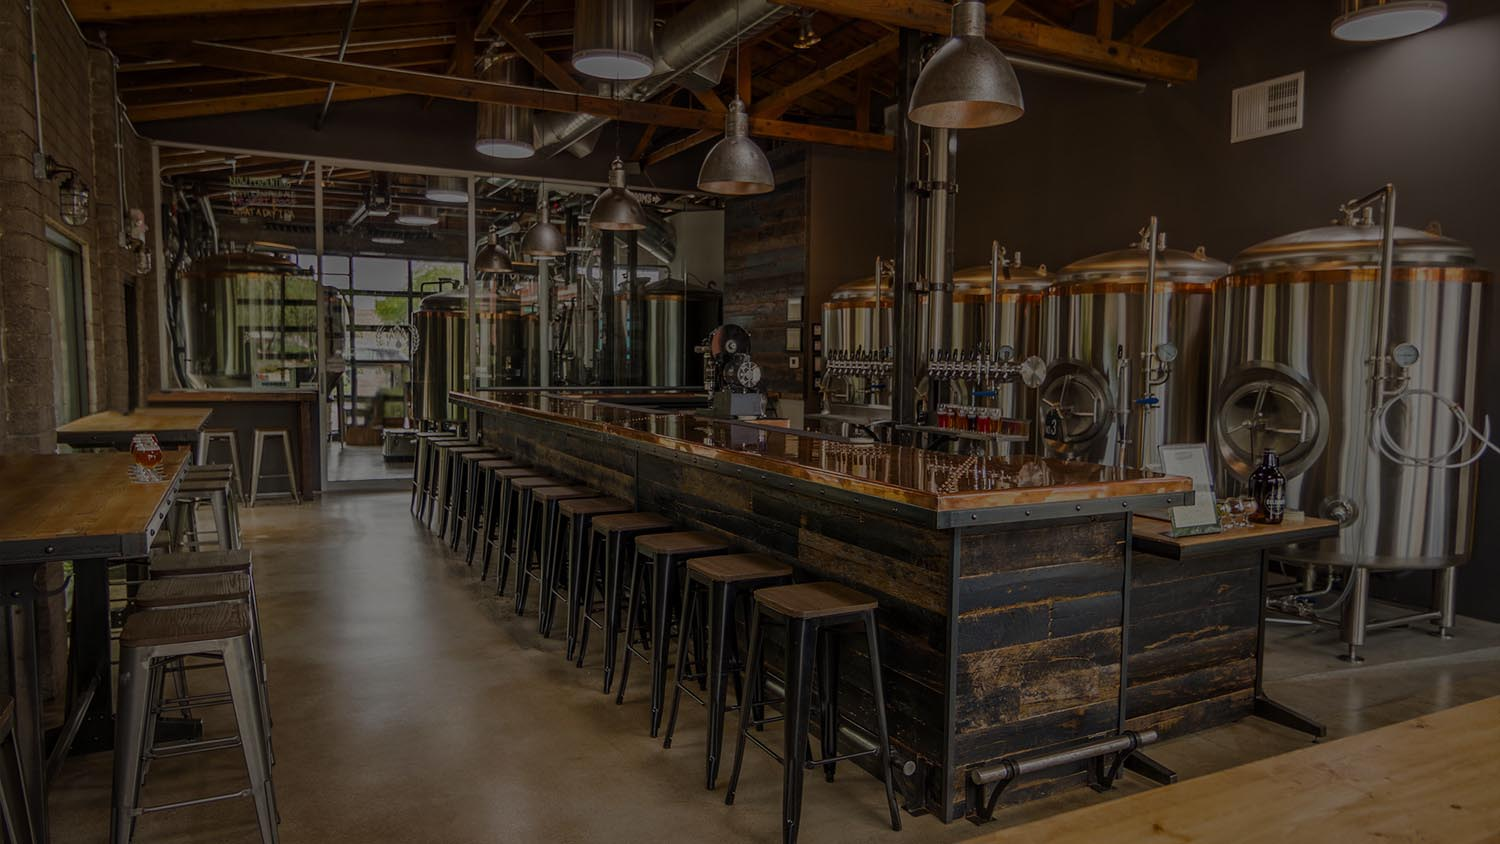
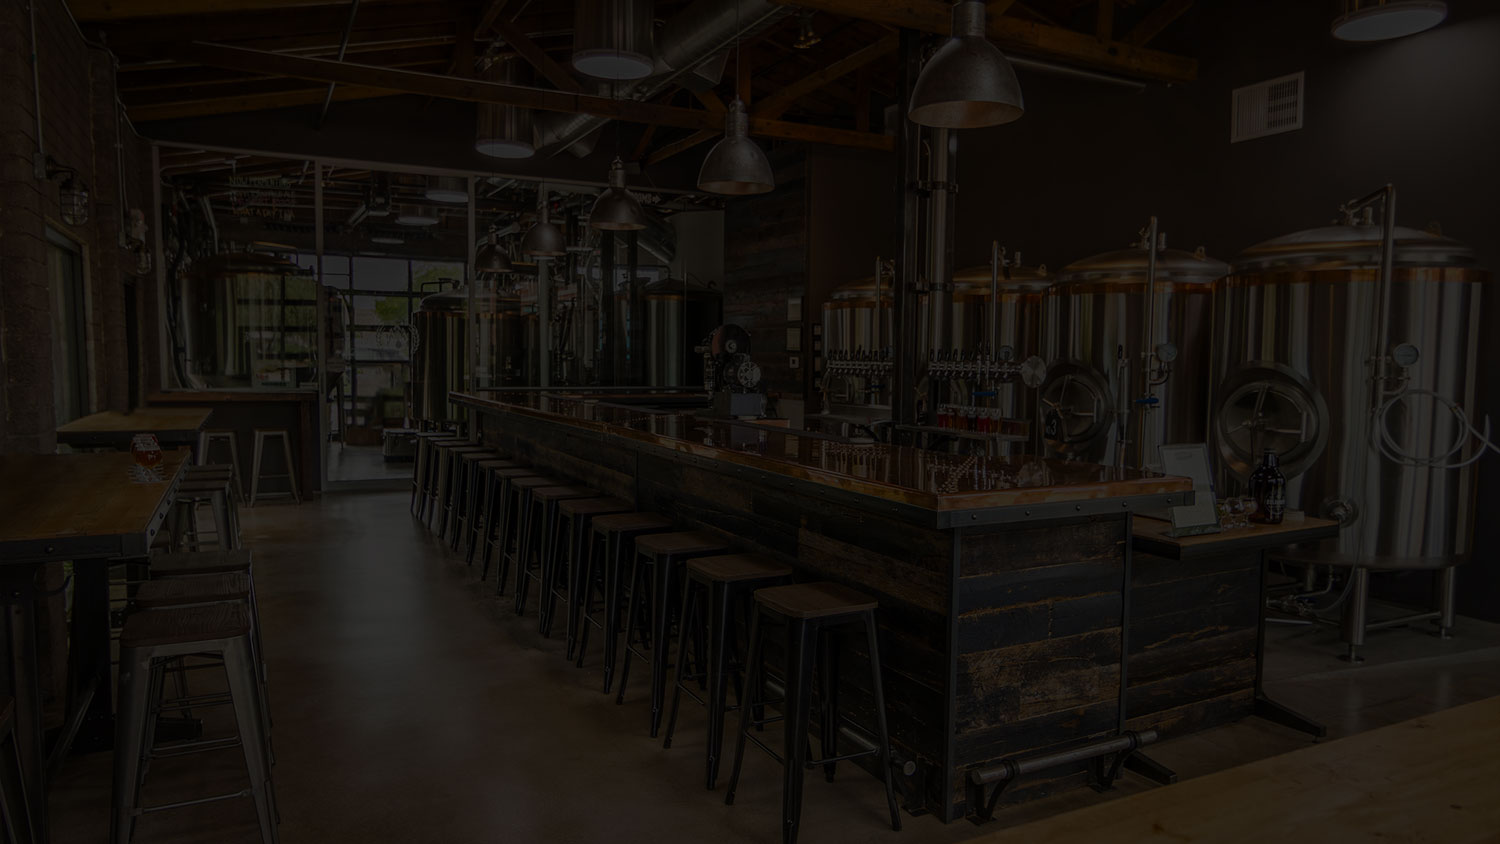
Updated BG image for user accessbility and added text to html on how to use web app

diff --git a/index.html b/index.html
@@ -15,6 +15,11 @@
     <main>
         <div class="container">
             <h1>Find a brewery near you!</h1>
+            <p>Beer Across America is a web app that wants to help users find local breweries
+                in their city. Just simply enter a city you are in or a city you are going to vist soon 
+                and choose the maximum number of results - then hit search! Blam a whole list of awesome
+                breweries are now at your fingertips!
+            </p>
             <section class="userSearch">
                 <form id="js-form">
                     <label for="search-term">Search a City</label><br>

diff --git a/style.css b/style.css
@@ -13,6 +13,19 @@ body {
   background-size: cover;
 }
 
+p {
+  display: flex;
+  justify-content: center;
+  align-items: center;
+  padding-right: auto;
+  padding-left: auto;
+  margin-right: auto;
+  margin-left: auto;
+  width: 380px;
+  /*transform: translate(125%, 20%);*/
+  color: white;
+}
+
 .main {
   border: 1px solid gray;
 }
@@ -109,7 +122,7 @@ a:visited {
 }
 
 a:hover {
-  color: rgb(104, 86, 27);
+  color: rgb(255, 94, 0);
   text-decoration: underline;
 }
 
